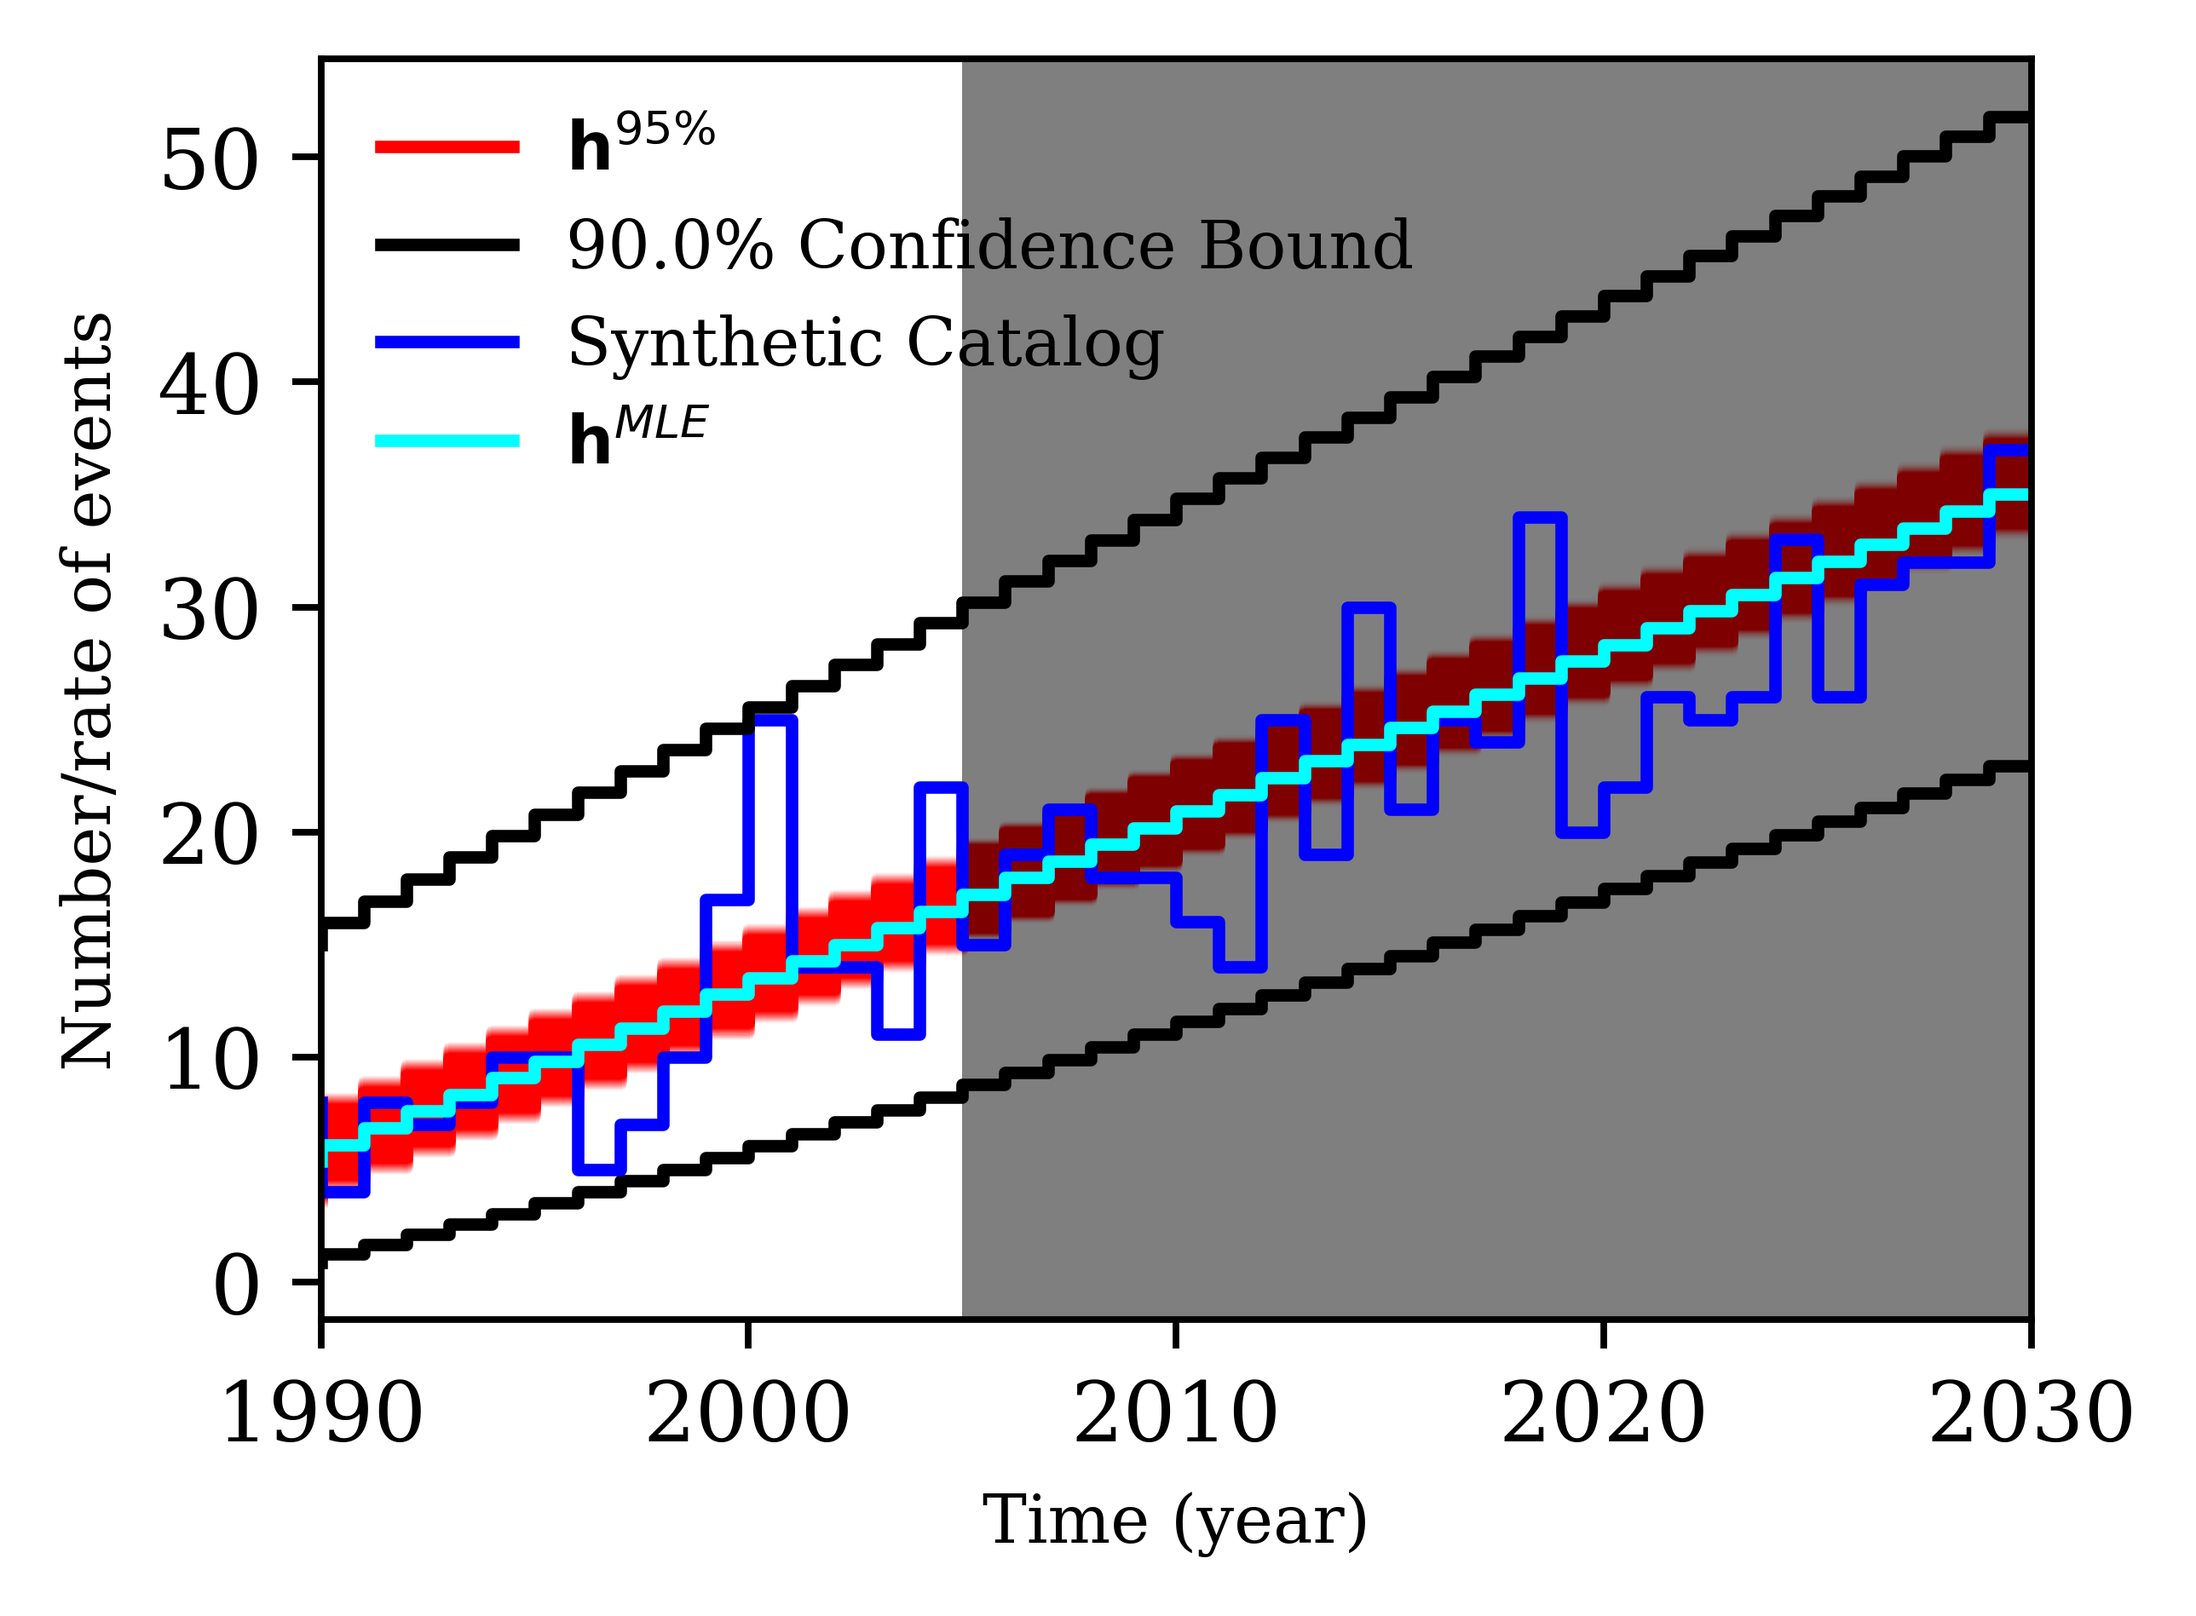
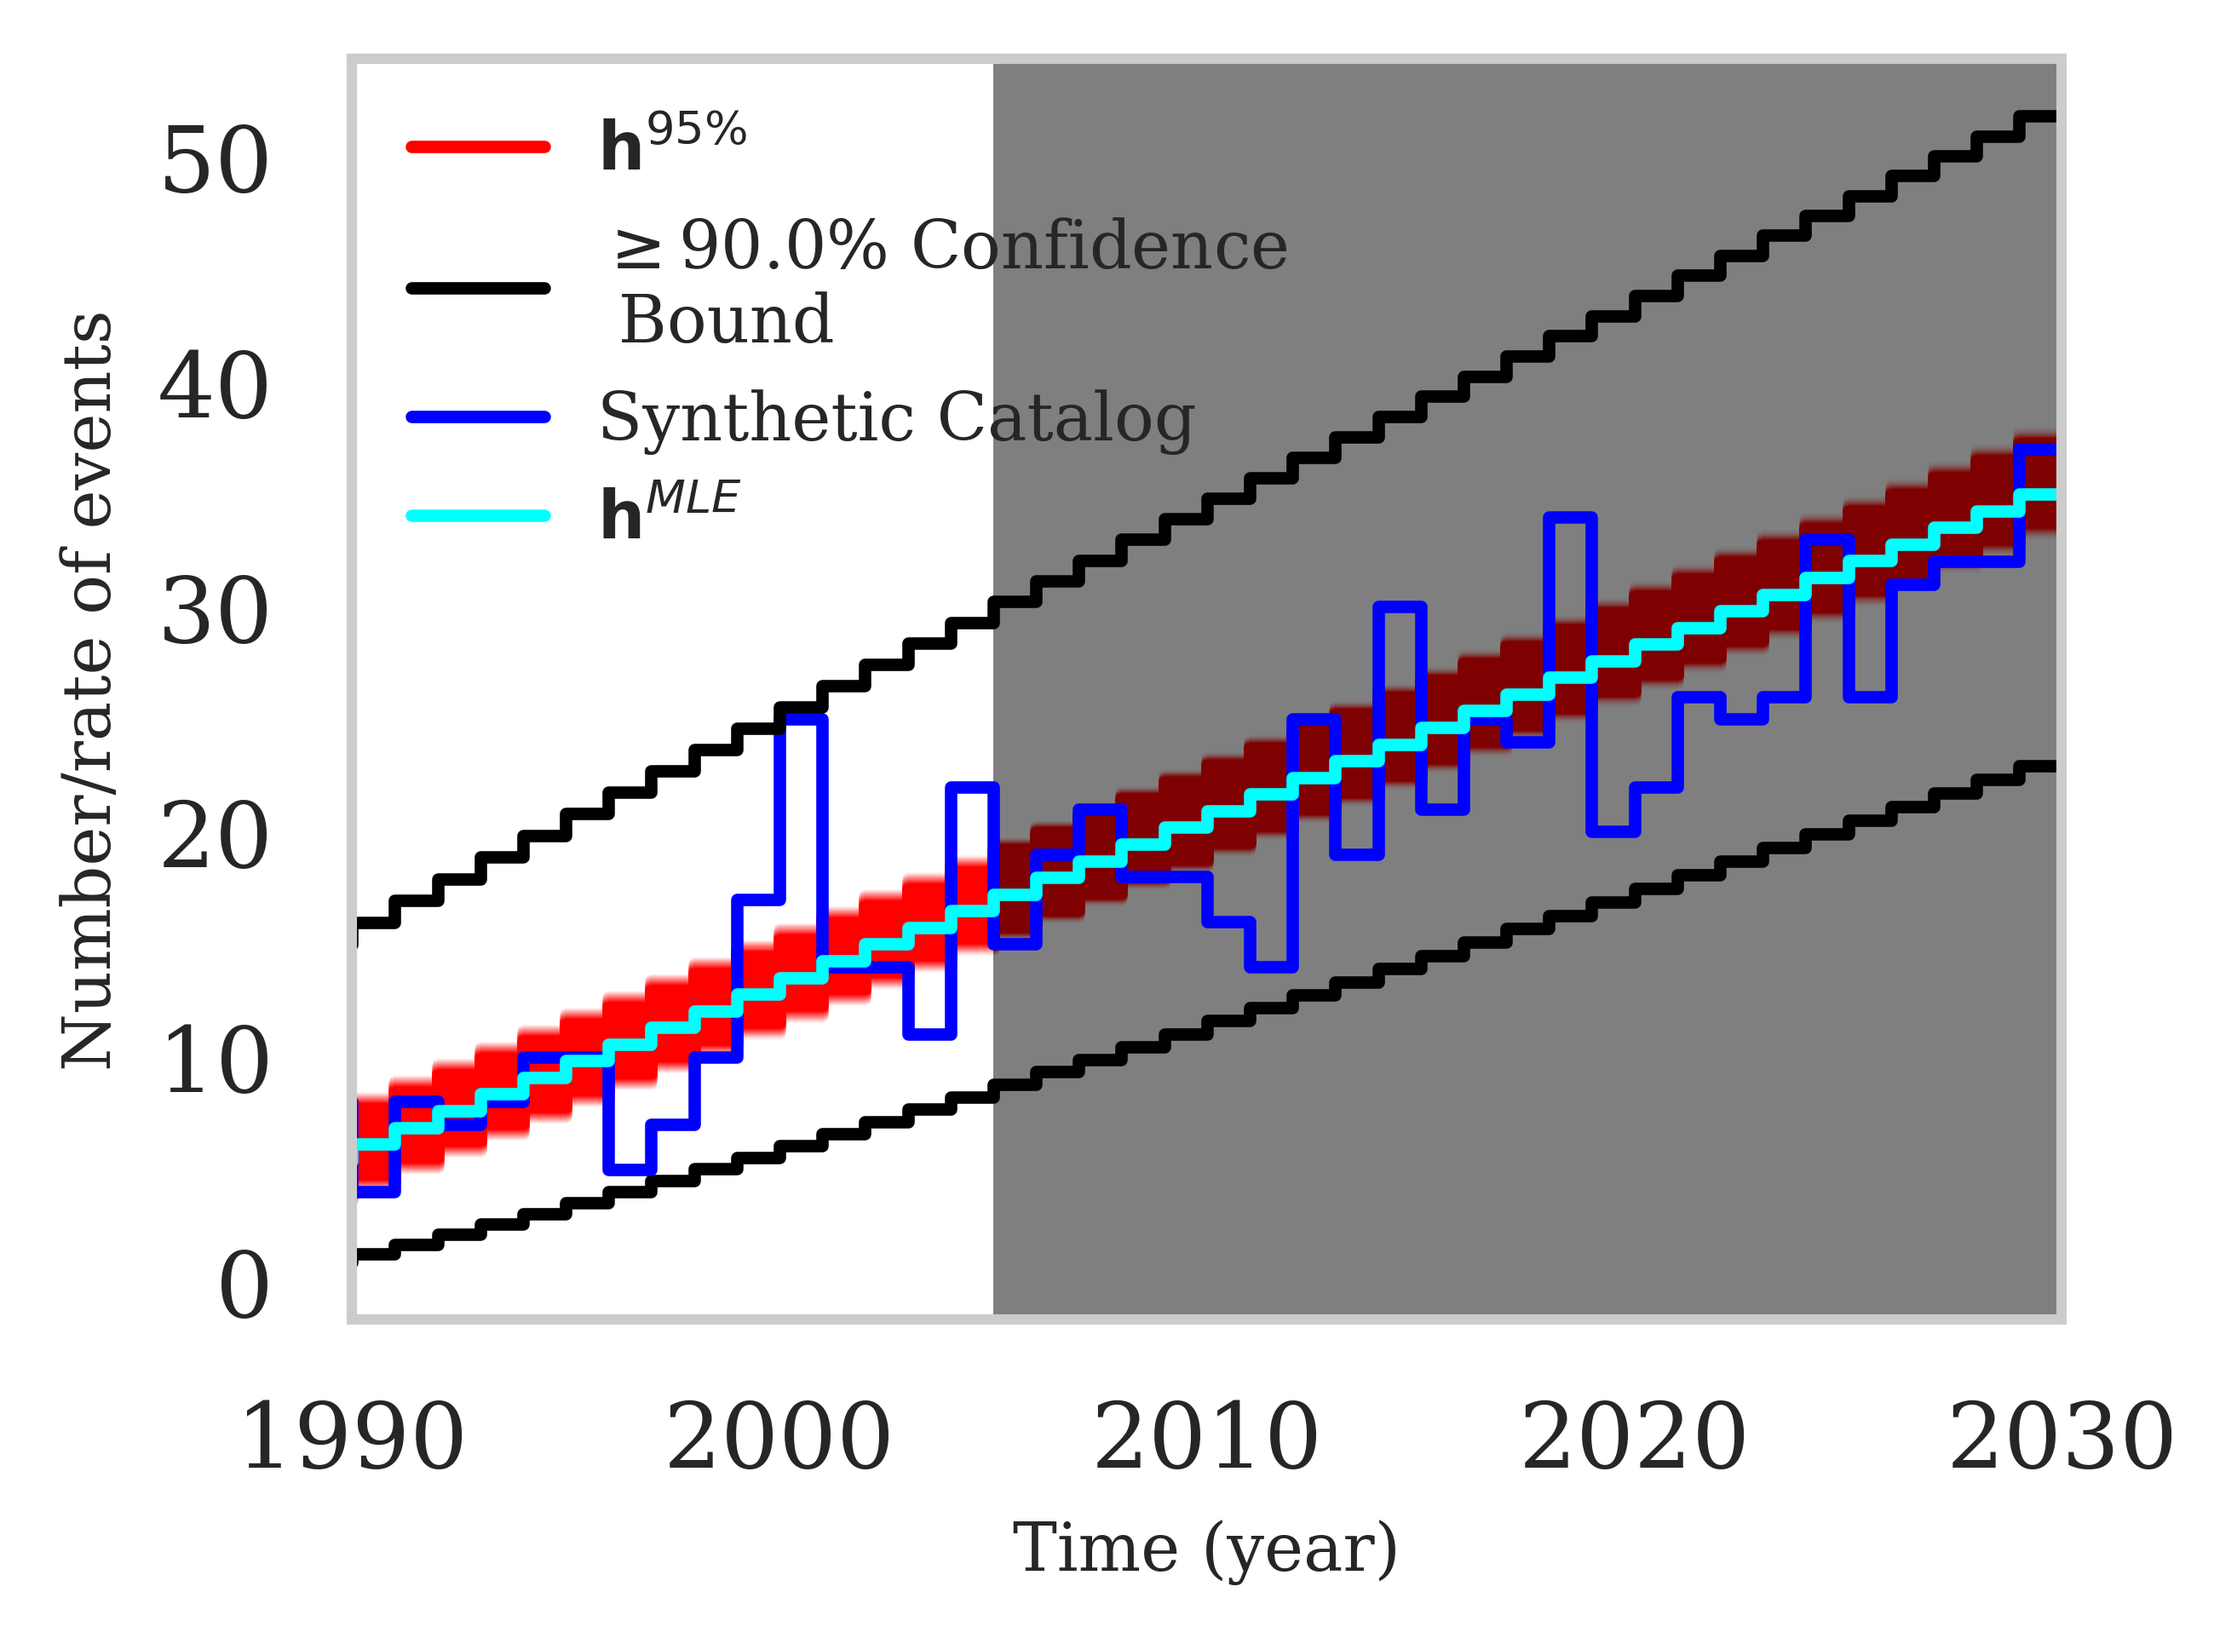
Version 1.0.0

diff --git a/Example3.py b/Example3.py
@@ -8,7 +8,8 @@ Created on Thu Aug 10 11:26:17 2023
 
 
 ## To show how the method works, we solve a simple example. In a very simple model we assume that seimicity increases linearly with time: 
-## R(t)=R0+a*(t) where R0, a are constants but unknown. Because they are, they would lead to epistemic uncertainity. Also, since the process is a Poisson process we have aleatoric uncertainity on top
+## R(t)=R0+a*(t) wherly with time: 
+## R(t)=R0+a*(t) where R0, a are constants but unknown. Becaue R0, a are constants but unknown. Because they are unknown, they would lead to epistemic uncertainity. Also, since the process is a Poisson process we have aleatoric uncertainity on top
 ## Now there are two parameters to invert for, R0 and a (assuming model family with the form R0+a*(t))
 
 #%% Importing Libraries
@@ -47,8 +48,8 @@ fig = plt.figure(figsize=(3.7, 2.8))# Plotting the True rate and the Catalog (on
 plt.rc('font',family='Serif')
 plt.rcParams.update({'font.family':'Serif'})
 ax = fig.add_subplot(1, 1, 1)
-ax.step(Time_year,True_rate_to_plot,label='True Rate')
-ax.step(Time_year,Realization_to_plot,label='Synthetic Catalog')
+ax.step(Timevector,True_rate,label='True Rate')
+ax.step(Timevector,Realization,label='Synthetic Catalog',alpha=.5)
 ax.set_xlabel('Time')
 ax.set_ylabel('Number/Rate of events')
 ax.legend(frameon=False)
@@ -134,7 +135,7 @@ for i in range(MinR.size):
 
 
 
-ax.step(Timevector,Confmin,color='black',label='{:.1f}% Confidence Bound'.format(conf))
+ax.step(Timevector,Confmin,color='black',label=r"$\geq$"+'{:.1f}% Confidence Bound'.format(conf))
 ax.step(Timevector,Realization,label='Synthetic Catalog',color='blue')  
 
 ax.step(Timevector,MLE_number,label=r'$\mathbf {h}^{MLE}$',color='cyan')
@@ -144,9 +145,12 @@ ax.set_ylabel(r"Number/rate of events",fontname=custom_font,size=FontSize)
 plt.axvspan(Timevector[N_train],Tmax, color='black', alpha=0.5, lw=0)
 ax.set_xlim(left=Tmin,right=Tmax)
 ax.set_ylim(top=20)
-leg=ax.legend(frameon=False,fontsize=FontSize)
+leg=ax.legend(frameon=False,fontsize=FontSize,loc='upper left')
 for lh in leg.legendHandles: 
     lh.set_alpha(1)
+
+plt.grid(False)
+
 fig.savefig('Figs/Timeseriesmonthly.png',bbox_inches = 'tight',dpi=700)
 #%% Quantifying the Uncertainity
 
@@ -165,6 +169,8 @@ plt.rcParams.update({'font.family':'Serif'})
 
 ax = fig.add_subplot(1, 2, 1)
 ax2=fig.add_subplot(1,2,2)
+ax.grid(False)
+ax2.grid(False)
 
 ax.set_xlabel(r"Time (year)",fontname=custom_font,size=FontSize)
 ax.set_ylabel(r"Number/rate of events",fontname=custom_font,size=FontSize)
@@ -230,7 +236,7 @@ plt.tight_layout()
     # fig.savefig('Qualitytogether.png', bbox_inches = 'tight',dpi=600)
   
 
-ax.text(1991,14,'(a)',ha="center", va="center", fontsize=FontSize,fontname=custom_font)
+ax.text(1991,15,'(a)',ha="center", va="center", fontsize=FontSize,fontname=custom_font)
 ax.set_xlim(left=Tmin,right=Tmax)
 ax.axvspan(Timevector[N_train],Tmax, color='black', alpha=0.5, lw=0)
 

diff --git a/Example2.py b/Example2.py
@@ -6,7 +6,7 @@ Created on Tue Aug  8 11:39:45 2023
 @author: hkaveh
 """
 ## To show how the method works, we solve a simple example. In a very simple model we assume that seimicity increases linearly with time: 
-## R(t)=R0+a*(t) where R0, a are constants but unknown. Because they are, they would lead to epistemic uncertainity. Also, since the process is a Poisson process we have aleatoric uncertainity on top
+## R(t)=R0+a*(t) where R0, a are constants but unknown. Because they are unknown, they would lead to epistemic uncertainity. Also, since the process is a Poisson process we have aleatoric uncertainity on top
 ## Now there are two parameters to invert for, R0 and a (assuming model family with the form R0+a*(t))
 
 #%% Importing Libraries
@@ -117,7 +117,7 @@ for i in range(MinR.size):
     Confmin[i] =   +chi2.ppf(gamma/2,2*MinR[i])/2           # Eq 14
     Confmax[i]=   +  chi2.ppf(1-gamma/2,2*(MaxR[i]+1))/2    # Eq 14
 
-ax.step(Timevector,Confmin,color='black',label='{:.1f}% Confidence Bound'.format(conf))
+ax.step(Timevector,Confmin,color='black',label=r"$\geq$"+'{:.1f}% Confidence'.format(conf)+'\n Bound')
 ax.step(Timevector,Realization,label='Synthetic Catalog',color='blue')  
 
 ax.step(Timevector,MLE_number,label=r'$\mathbf {h}^{MLE}$',color='cyan')
@@ -129,6 +129,9 @@ ax.set_xlim(left=Tmin,right=Tmax)
 leg=ax.legend(frameon=False,fontsize=FontSize)
 for lh in leg.legendHandles: 
     lh.set_alpha(1)
+plt.grid(False)
+plt.gca().set_facecolor('none')
+
 fig.savefig('Figs/TimeseriesYearly.png',bbox_inches = 'tight',dpi=700)
 #%% Quantifying the Uncertainity
 
@@ -224,6 +227,8 @@ cb.set_label(label=r'Percent Confidence interval bound',size=FontSize,fontname="
 leg=ax.legend(frameon=False,fontsize=FontSize)
 for lh in leg.legendHandles: 
     lh.set_alpha(1)
+plt.gca().set_facecolor('none')
+plt.grid(False)
 
 fig.savefig('Figs/QualityYearly.png',bbox_inches = 'tight',dpi=700)
 

diff --git a/README.md b/README.md
@@ -1,7 +1,9 @@
 # Uncertainty Quantification Method For Induced Seismicity forecasting
-*This code is generated as supplementary material for the following paper:
+* This code is generated as supplementary material for the following paper:
+
 Induced Seismicity Forecasting with Uncertainty Quantification: Application to the Groningen Gas Field
+ 
+* 
 
-*
+This code quantifies the epistemic and aleatoric uncertainty and combines them to give a range for the number of earthquakes in each time bin for a desired confidence level. These codes are for Examples 2 and 3 Introduced in Appendix 3 of the paper.
 
-This code quantifies the epistemic and aleatoric uncertainty and combines them to give a range for the number of earthquakes in each time bin for a desired confidence level.
